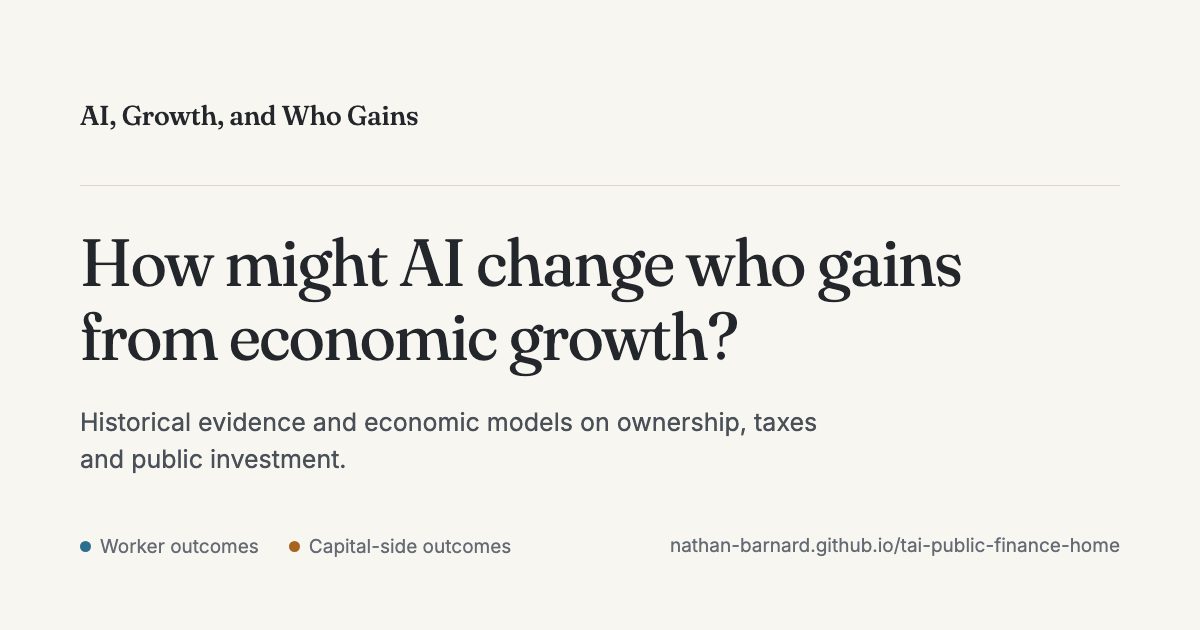
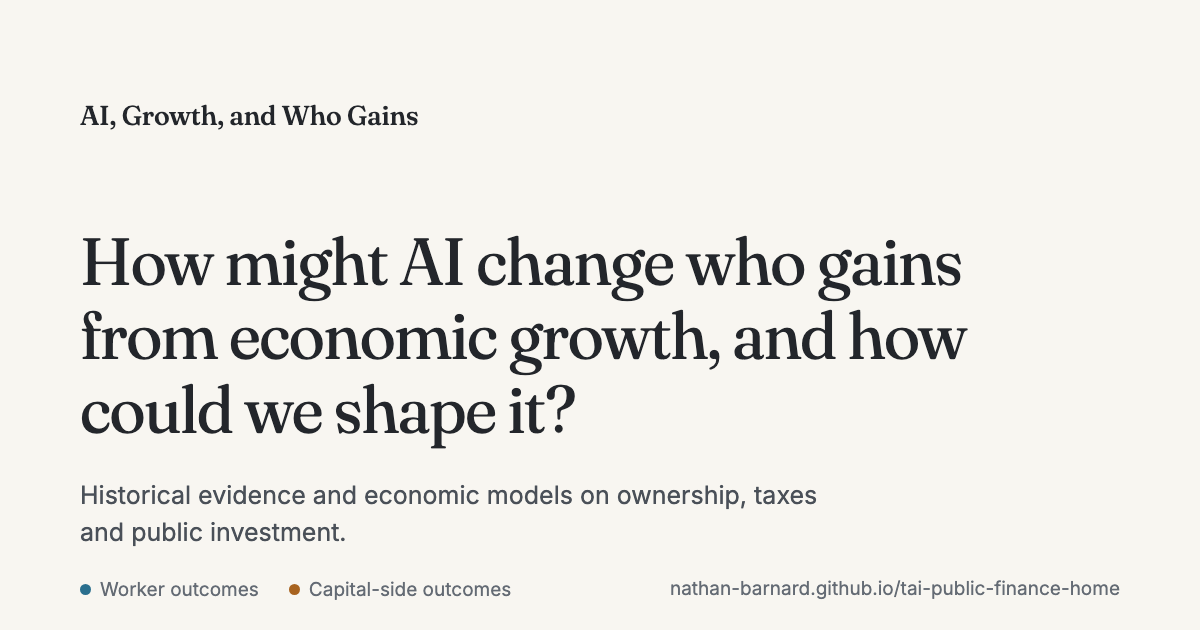
Extend the homepage question to the policy half of the site
The headline now reads "How might AI change who gains from economic
growth, and how could we shape it?". The second clause names what the
back half of the page already covers: taxes and transfers, public
investment, and what makes an investment useful.

The social image, the page descriptions and the social alt text follow
the same wording. The hero keeps to its height band at both desktop
sizes with the third line of type.

diff --git a/index.html b/index.html
@@ -6,7 +6,7 @@
     <title>AI, Growth, and Who Gains</title>
     <meta
       name="description"
-      content="How might AI change who gains from economic growth? A research explainer using historical evidence and economic models to examine how ownership, taxes and public investment shape who benefits."
+      content="How might AI change who gains from economic growth, and how could we shape it? A research explainer using historical evidence and economic models to examine how ownership, taxes and public investment shape who benefits."
     />
     <meta name="theme-color" content="#f8f6f1" />
     <meta name="color-scheme" content="light" />
@@ -35,7 +35,7 @@
     <meta property="og:title" content="AI, Growth, and Who Gains" />
     <meta
       property="og:description"
-      content="How might AI change who gains from economic growth? A research explainer using historical evidence and economic models to examine how ownership, taxes and public investment shape who benefits."
+      content="How might AI change who gains from economic growth, and how could we shape it? A research explainer using historical evidence and economic models to examine how ownership, taxes and public investment shape who benefits."
     />
     <meta
       property="og:url"
@@ -49,13 +49,13 @@
     <meta property="og:image:height" content="630" />
     <meta
       property="og:image:alt"
-      content="AI, Growth, and Who Gains. How might AI change who gains from economic growth?"
+      content="AI, Growth, and Who Gains. How might AI change who gains from economic growth, and how could we shape it?"
     />
     <meta name="twitter:card" content="summary_large_image" />
     <meta name="twitter:title" content="AI, Growth, and Who Gains" />
     <meta
       name="twitter:description"
-      content="How might AI change who gains from economic growth? A research explainer using historical evidence and economic models to examine how ownership, taxes and public investment shape who benefits."
+      content="How might AI change who gains from economic growth, and how could we shape it? A research explainer using historical evidence and economic models to examine how ownership, taxes and public investment shape who benefits."
     />
     <meta
       name="twitter:image"

diff --git a/src/content/home.ts b/src/content/home.ts
@@ -3,7 +3,8 @@ import { routes } from '@/lib/paths';
 
 export const hero = {
   eyebrow: 'AI, growth, and distribution',
-  headline: 'How might AI change who gains from economic growth?',
+  headline:
+    'How might AI change who gains from economic growth, and how could we shape it?',
   body: 'AI may raise productivity, wages and profits in different proportions. This project uses historical evidence and economic models to examine how ownership, taxes and public investment can shape who benefits.',
   primary: { label: 'Explore possible futures', href: routes.explore },
   secondary: { label: 'See what history shows', href: '#history' },

diff --git a/src/content/site.ts b/src/content/site.ts
@@ -4,7 +4,7 @@ import { routes } from '@/lib/paths';
 export const site = {
   name: 'AI, Growth, and Who Gains',
   description:
-    'How might AI change who gains from economic growth? A research explainer using historical evidence and economic models to examine ownership, taxes and public investment.',
+    'How might AI change who gains from economic growth, and how could we shape it? A research explainer using historical evidence and economic models to examine ownership, taxes and public investment.',
 };
 
 export const nav = [

diff --git a/404.html b/404.html
@@ -52,7 +52,7 @@
     <meta property="og:image:height" content="630" />
     <meta
       property="og:image:alt"
-      content="AI, Growth, and Who Gains. How might AI change who gains from economic growth?"
+      content="AI, Growth, and Who Gains. How might AI change who gains from economic growth, and how could we shape it?"
     />
     <meta name="twitter:card" content="summary_large_image" />
     <meta

diff --git a/dashboard/index.html b/dashboard/index.html
@@ -52,7 +52,7 @@
     <meta property="og:image:height" content="630" />
     <meta
       property="og:image:alt"
-      content="AI, Growth, and Who Gains. How might AI change who gains from economic growth?"
+      content="AI, Growth, and Who Gains. How might AI change who gains from economic growth, and how could we shape it?"
     />
     <meta name="twitter:card" content="summary_large_image" />
     <meta

diff --git a/evidence/index.html b/evidence/index.html
@@ -52,7 +52,7 @@
     <meta property="og:image:height" content="630" />
     <meta
       property="og:image:alt"
-      content="AI, Growth, and Who Gains. How might AI change who gains from economic growth?"
+      content="AI, Growth, and Who Gains. How might AI change who gains from economic growth, and how could we shape it?"
     />
     <meta name="twitter:card" content="summary_large_image" />
     <meta

diff --git a/explore/index.html b/explore/index.html
@@ -52,7 +52,7 @@
     <meta property="og:image:height" content="630" />
     <meta
       property="og:image:alt"
-      content="AI, Growth, and Who Gains. How might AI change who gains from economic growth?"
+      content="AI, Growth, and Who Gains. How might AI change who gains from economic growth, and how could we shape it?"
     />
     <meta name="twitter:card" content="summary_large_image" />
     <meta

diff --git a/research/index.html b/research/index.html
@@ -52,7 +52,7 @@
     <meta property="og:image:height" content="630" />
     <meta
       property="og:image:alt"
-      content="AI, Growth, and Who Gains. How might AI change who gains from economic growth?"
+      content="AI, Growth, and Who Gains. How might AI change who gains from economic growth, and how could we shape it?"
     />
     <meta name="twitter:card" content="summary_large_image" />
     <meta

diff --git a/src/styles/site.css b/src/styles/site.css
@@ -58,7 +58,7 @@
 /* Page heads and hero                                                 */
 /* ------------------------------------------------------------------ */
 .home-hero {
-  padding-block: clamp(1.5rem, 2.1vw, 2.15rem);
+  padding-block: clamp(1.4rem, 1.85vw, 2rem);
 }
 .home-hero__inner {
   display: grid;
